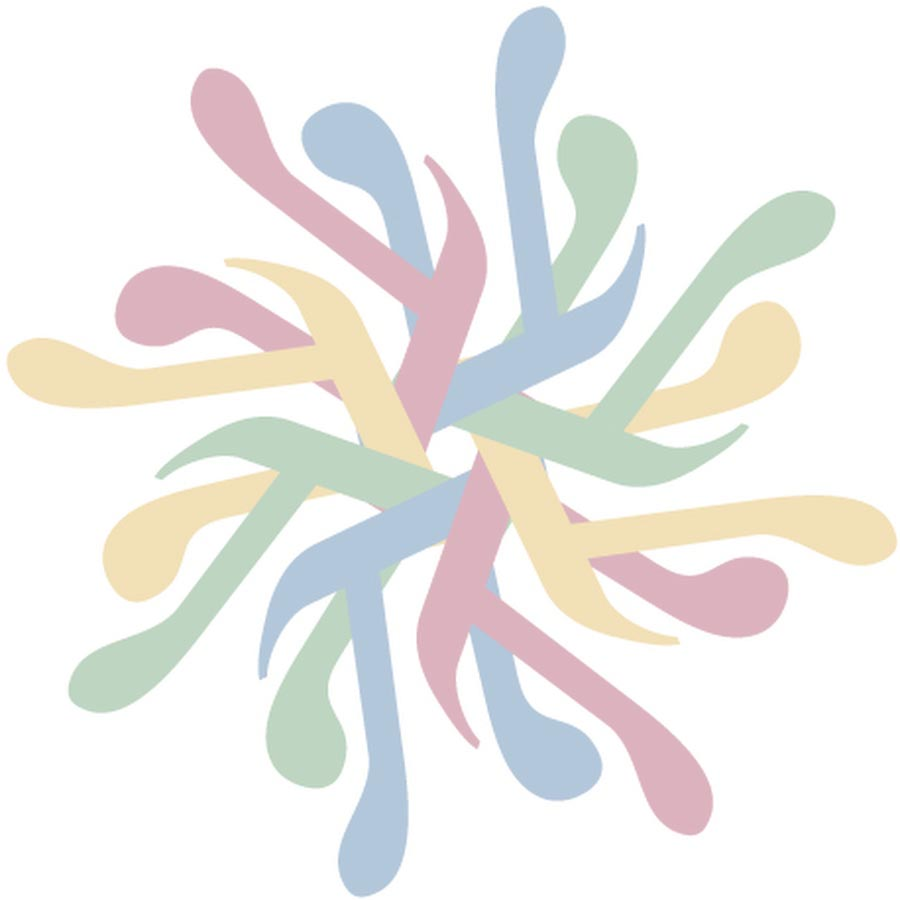
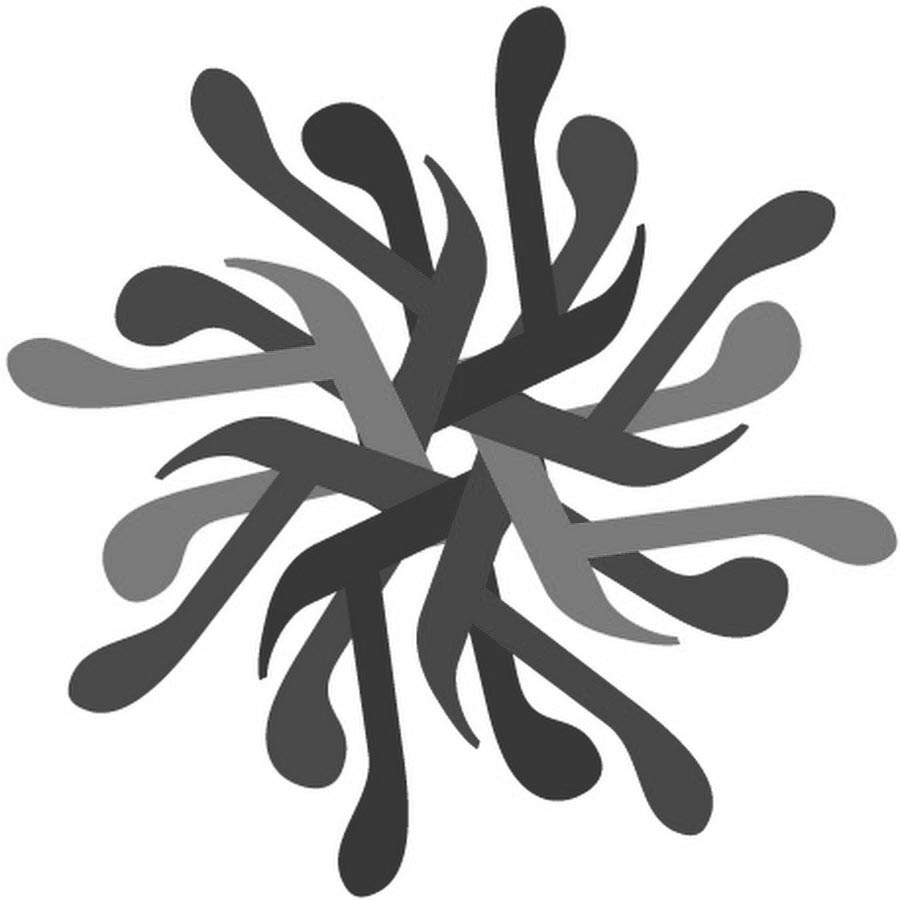
commit10

diff --git a/default.html b/default.html
@@ -20,7 +20,7 @@
 			width: 450px;
 			margin-left: -226px;
 			margin-top: -223px;
-			opacity: 0;
+			opacity: 1;
 			/*показать реальный логотип*/
 		}
 
@@ -260,7 +260,7 @@
 		</div>
 	</div>
 
-	<h1 class="link"><a href="index.html"></a></h1>
+	<h1 class="link"><a href="https://momath.org/"></a></h1>
 </body>
 
 </html>
